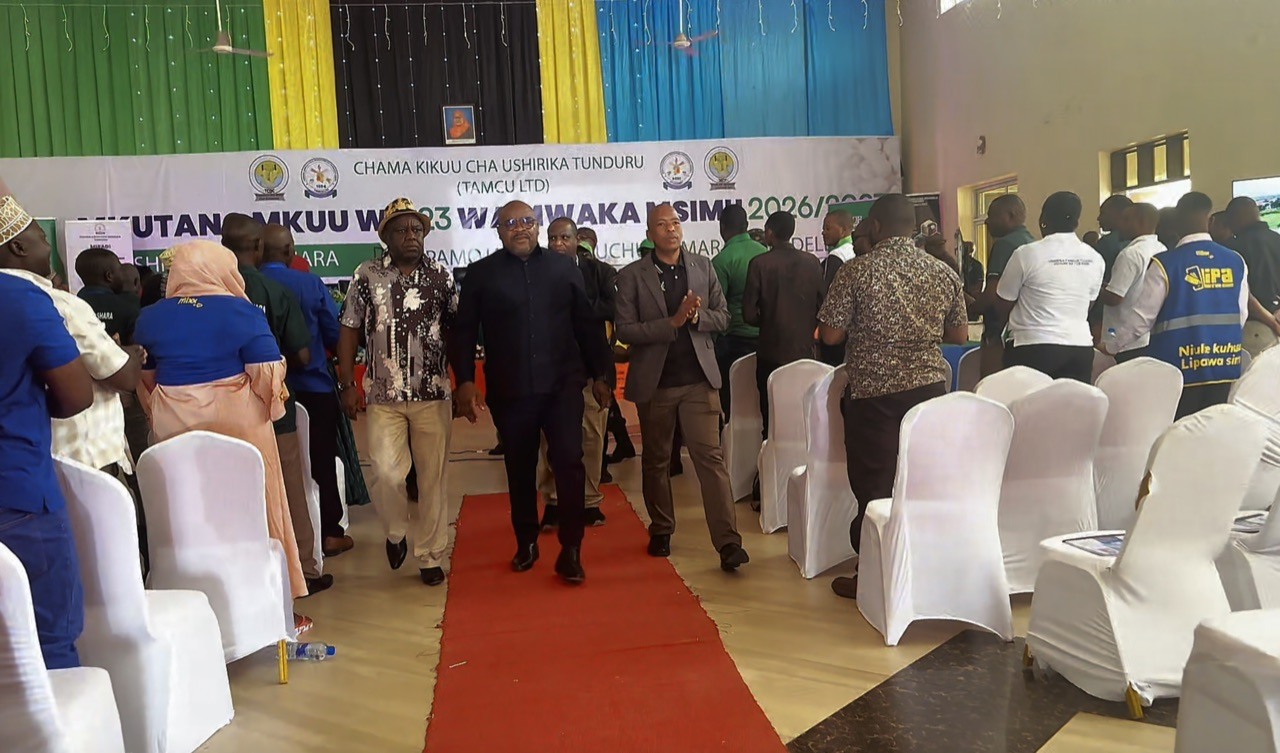
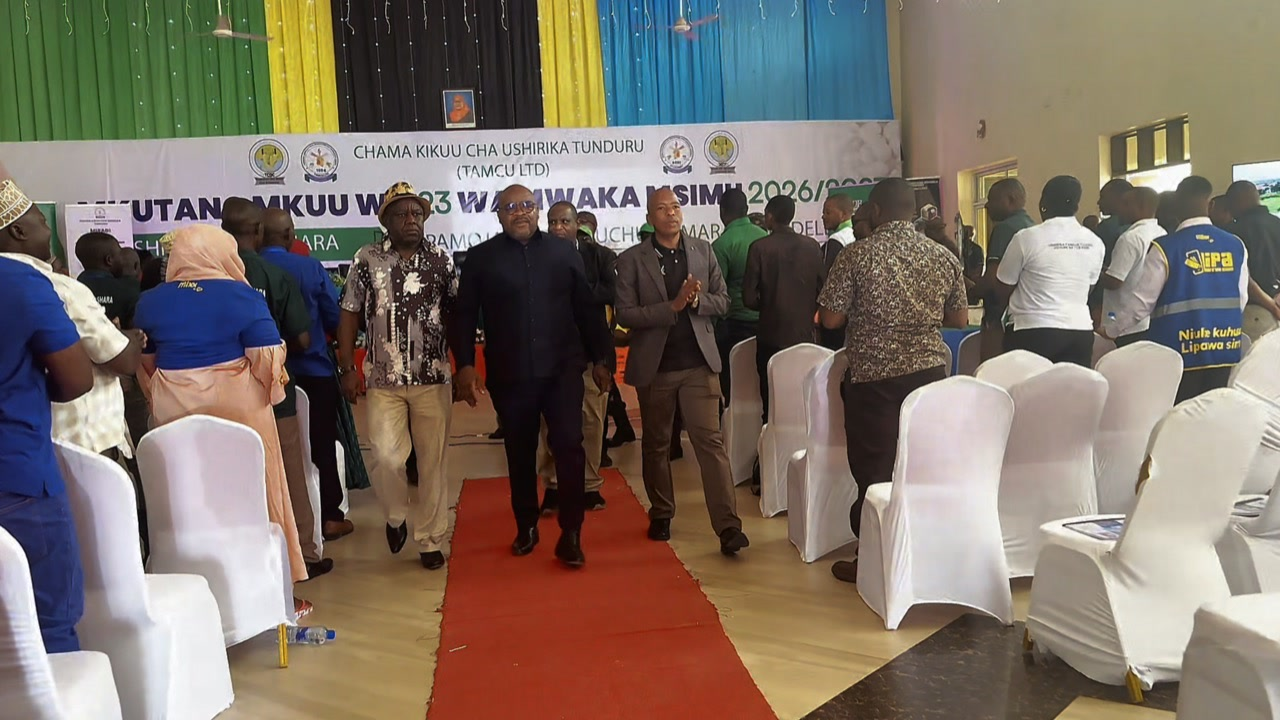
Production cleanup: fix phone links, optimize video, harden i18n, SEO/robots
- Fixed tel: links to use correct international format +2557537999001
- Added telephone to schema.org Organization JSON-LD
- Wrapped localStorage access in try/catch for private-mode safety
- Removed unused i18n keys for old stats/about paragraphs
- Replaced 38MB 1080p video with 13MB 720p version for autoplay performance
- Cropped video poster to 16:9 (1280x720) to match video aspect ratio
- Disallowed /pages/ in robots.txt to hide old template files
- Added original unoptimized assets to .gitignore

diff --git a/assets/js/i18n.js b/assets/js/i18n.js
@@ -9,6 +9,24 @@
   const STORAGE_KEY = 'tamcu-lang';
   const DEFAULT_LANG = 'sw';
 
+  /* Safe localStorage wrapper (handles private mode / blocked storage) */
+  const storage = {
+    get(key) {
+      try {
+        return localStorage.getItem(key);
+      } catch (e) {
+        return null;
+      }
+    },
+    set(key, value) {
+      try {
+        localStorage.setItem(key, value);
+      } catch (e) {
+        // ignore
+      }
+    },
+  };
+
   /* ================================================================
      DICTIONARY: Swahili key → English text
      Keys mirror the data-i18n attribute values.
@@ -70,17 +88,12 @@
     index_about_title: 'Primary Co-operative Society (TAMCU LTD)',
     index_about_p1:
       'TAMCU Primary Co-operative Society was established on 14.03.1994 under the Co-operative Societies Act (Chapter 211 Revised Edition 2023) and its amendments of 2025, and was given registration number AFF-RVM-TUN-DC-2023-27.',
-    index_about_p2: '',
-    index_about_p3: '',
     index_about_cert: 'Chapter 211',
     index_about_certYear: 'Revised Edition 2023',
     index_about_reg: 'AFF-RVM-TUN-DC-2023-27',
     index_about_regLabel: 'Registration No.',
 
     index_stats_founded: 'Year Founded',
-    index_stats_coops: 'Co-operative Societies',
-    index_stats_primary: 'Primary Societies in Tunduru',
-    index_stats_crops: 'Types of Crops',
     index_stats_amcos: 'Primary Societies (AMCOs)',
     index_stats_members: 'Member Societies',
     index_stats_nonmembers: 'Non-Member Societies',
@@ -164,9 +177,7 @@
       'TAMCU Primary Co-operative Society was established on 14.03.1994 under the Co-operative Societies Act (Chapter 211 Revised Edition 2023) and its amendments of 2025, and was given registration number AFF-RVM-TUN-DC-2023-27.',
     about_history_p2:
       'The society involves 49 Primary Societies (AMCOs), of which 44 are Member Societies and 5 are Non-Member Societies.',
-    about_history_p3: '',
     about_history_foundedLabel: 'Year Founded',
-    about_history_regLabel: 'Registration Certificate',
     about_history_years: 'Years of Service',
     about_history_amcosLabel: 'Primary Societies (AMCOs)',
     about_history_membersLabel: 'Member Societies',
@@ -776,7 +787,7 @@
    */
   window.setLanguage = function (lang) {
     if (lang !== 'sw' && lang !== 'en') return;
-    localStorage.setItem(STORAGE_KEY, lang);
+    storage.set(STORAGE_KEY, lang);
     applyLanguage(lang);
   };
 
@@ -784,7 +795,7 @@
    * Initialize on page load.
    */
   function init() {
-    const lang = localStorage.getItem(STORAGE_KEY) || DEFAULT_LANG;
+    const lang = storage.get(STORAGE_KEY) || DEFAULT_LANG;
     applyLanguage(lang);
   }
 

diff --git a/contact.html b/contact.html
@@ -194,7 +194,7 @@ tailwind.config = {
             </div>
             <div>
               <p data-i18n="contact_phone_label" class="font-heading font-semibold text-primary">Simu</p>
-              <a href="tel:+25507537999001" class="text-secondary text-sm hover:text-accent transition-colors">+255 (0) 753 -7999001</a>
+              <a href="tel:+2557537999001" class="text-secondary text-sm hover:text-accent transition-colors">+255 (0) 753 -7999001</a>
             </div>
           </div>
 
@@ -330,7 +330,7 @@ tailwind.config = {
         <ul class="space-y-3">
           <li class="flex items-start gap-3"><i data-lucide="map-pin" class="w-4 h-4 text-accent mt-0.5 shrink-0"></i><span data-i18n="contact_address" class="text-white/60 text-sm">Tunduru, Ruvuma, Tanzania</span></li>
           <li class="flex items-center gap-3"><i data-lucide="mail" class="w-4 h-4 text-accent shrink-0"></i><a href="mailto:[email redacted]" class="text-white/60 hover:text-white text-sm transition-colors">[email redacted]</a></li>
-          <li class="flex items-center gap-3"><i data-lucide="phone" class="w-4 h-4 text-accent shrink-0"></i><a href="tel:+25507537999001" class="text-white/60 hover:text-white text-sm transition-colors">+255 (0) 753 -7999001</a></li>
+          <li class="flex items-center gap-3"><i data-lucide="phone" class="w-4 h-4 text-accent shrink-0"></i><a href="tel:+2557537999001" class="text-white/60 hover:text-white text-sm transition-colors">+255 (0) 753 -7999001</a></li>
         </ul>
       </div>
     </div>

diff --git a/index.html b/index.html
@@ -36,6 +36,7 @@
   "logo": "assets/images/logo.png",
   "image": "assets/images/CoverPage.png",
   "email": "[email redacted]",
+  "telephone": "+2557537999001",
   "address": {
     "@type": "PostalAddress",
     "addressLocality": "Tunduru",
@@ -758,7 +759,7 @@ tailwind.config = {
           </li>
           <li class="flex items-center gap-3">
             <i data-lucide="phone" class="w-4 h-4 text-accent shrink-0"></i>
-            <a href="tel:+25507537999001" class="text-white/60 hover:text-white text-sm transition-colors">+255 (0) 753 -7999001</a>
+            <a href="tel:+2557537999001" class="text-white/60 hover:text-white text-sm transition-colors">+255 (0) 753 -7999001</a>
           </li>
         </ul>
       </div>

diff --git a/about.html b/about.html
@@ -358,7 +358,7 @@ tailwind.config = {
         <ul class="space-y-3">
           <li class="flex items-start gap-3"><i data-lucide="map-pin" class="w-4 h-4 text-accent mt-0.5 shrink-0"></i><span class="text-white/60 text-sm">Tunduru, Ruvuma, Tanzania</span></li>
           <li class="flex items-center gap-3"><i data-lucide="mail" class="w-4 h-4 text-accent shrink-0"></i><a href="mailto:[email redacted]" class="text-white/60 hover:text-white text-sm transition-colors">[email redacted]</a></li>
-          <li class="flex items-center gap-3"><i data-lucide="phone" class="w-4 h-4 text-accent shrink-0"></i><a href="tel:+25507537999001" class="text-white/60 hover:text-white text-sm transition-colors">+255 (0) 753 -7999001</a></li>
+          <li class="flex items-center gap-3"><i data-lucide="phone" class="w-4 h-4 text-accent shrink-0"></i><a href="tel:+2557537999001" class="text-white/60 hover:text-white text-sm transition-colors">+255 (0) 753 -7999001</a></li>
         </ul>
       </div>
     </div>

diff --git a/investment.html b/investment.html
@@ -328,7 +328,7 @@ tailwind.config = {
         <ul class="space-y-3">
           <li class="flex items-start gap-3"><i data-lucide="map-pin" class="w-4 h-4 text-accent mt-0.5 shrink-0"></i><span class="text-white/60 text-sm">Tunduru, Ruvuma, Tanzania</span></li>
           <li class="flex items-center gap-3"><i data-lucide="mail" class="w-4 h-4 text-accent shrink-0"></i><a href="mailto:[email redacted]" class="text-white/60 hover:text-white text-sm transition-colors">[email redacted]</a></li>
-          <li class="flex items-center gap-3"><i data-lucide="phone" class="w-4 h-4 text-accent shrink-0"></i><a href="tel:+25507537999001" class="text-white/60 hover:text-white text-sm transition-colors">+255 (0) 753 -7999001</a></li>
+          <li class="flex items-center gap-3"><i data-lucide="phone" class="w-4 h-4 text-accent shrink-0"></i><a href="tel:+2557537999001" class="text-white/60 hover:text-white text-sm transition-colors">+255 (0) 753 -7999001</a></li>
         </ul>
       </div>
     </div>

diff --git a/news.html b/news.html
@@ -318,7 +318,7 @@ tailwind.config = {
         <ul class="space-y-3">
           <li class="flex items-start gap-3"><i data-lucide="map-pin" class="w-4 h-4 text-accent mt-0.5 shrink-0"></i><span class="text-white/60 text-sm">Tunduru, Ruvuma, Tanzania</span></li>
           <li class="flex items-center gap-3"><i data-lucide="mail" class="w-4 h-4 text-accent shrink-0"></i><a href="mailto:[email redacted]" class="text-white/60 hover:text-white text-sm transition-colors">[email redacted]</a></li>
-          <li class="flex items-center gap-3"><i data-lucide="phone" class="w-4 h-4 text-accent shrink-0"></i><a href="tel:+25507537999001" class="text-white/60 hover:text-white text-sm transition-colors">+255 (0) 753 -7999001</a></li>
+          <li class="flex items-center gap-3"><i data-lucide="phone" class="w-4 h-4 text-accent shrink-0"></i><a href="tel:+2557537999001" class="text-white/60 hover:text-white text-sm transition-colors">+255 (0) 753 -7999001</a></li>
         </ul>
       </div>
     </div>

diff --git a/privacy-policy.html b/privacy-policy.html
@@ -255,7 +255,7 @@ tailwind.config = {
         <ul class="space-y-3">
           <li class="flex items-start gap-3"><i data-lucide="map-pin" class="w-4 h-4 text-accent mt-0.5 shrink-0"></i><span class="text-white/60 text-sm">Tunduru, Ruvuma, Tanzania</span></li>
           <li class="flex items-center gap-3"><i data-lucide="mail" class="w-4 h-4 text-accent shrink-0"></i><a href="mailto:[email redacted]" class="text-white/60 hover:text-white text-sm transition-colors">[email redacted]</a></li>
-          <li class="flex items-center gap-3"><i data-lucide="phone" class="w-4 h-4 text-accent shrink-0"></i><a href="tel:+25507537999001" class="text-white/60 hover:text-white text-sm transition-colors">+255 (0) 753 -7999001</a></li>
+          <li class="flex items-center gap-3"><i data-lucide="phone" class="w-4 h-4 text-accent shrink-0"></i><a href="tel:+2557537999001" class="text-white/60 hover:text-white text-sm transition-colors">+255 (0) 753 -7999001</a></li>
         </ul>
       </div>
     </div>

diff --git a/products.html b/products.html
@@ -403,7 +403,7 @@ tailwind.config = {
         <ul class="space-y-3">
           <li class="flex items-start gap-3"><i data-lucide="map-pin" class="w-4 h-4 text-accent mt-0.5 shrink-0"></i><span class="text-white/60 text-sm">Tunduru, Ruvuma, Tanzania</span></li>
           <li class="flex items-center gap-3"><i data-lucide="mail" class="w-4 h-4 text-accent shrink-0"></i><a href="mailto:[email redacted]" class="text-white/60 hover:text-white text-sm transition-colors">[email redacted]</a></li>
-          <li class="flex items-center gap-3"><i data-lucide="phone" class="w-4 h-4 text-accent shrink-0"></i><a href="tel:+25507537999001" class="text-white/60 hover:text-white text-sm transition-colors">+255 (0) 753 -7999001</a></li>
+          <li class="flex items-center gap-3"><i data-lucide="phone" class="w-4 h-4 text-accent shrink-0"></i><a href="tel:+2557537999001" class="text-white/60 hover:text-white text-sm transition-colors">+255 (0) 753 -7999001</a></li>
         </ul>
       </div>
     </div>

diff --git a/services.html b/services.html
@@ -297,7 +297,7 @@ tailwind.config = {
         <ul class="space-y-3">
           <li class="flex items-start gap-3"><i data-lucide="map-pin" class="w-4 h-4 text-accent mt-0.5 shrink-0"></i><span class="text-white/60 text-sm">Tunduru, Ruvuma, Tanzania</span></li>
           <li class="flex items-center gap-3"><i data-lucide="mail" class="w-4 h-4 text-accent shrink-0"></i><a href="mailto:[email redacted]" class="text-white/60 hover:text-white text-sm transition-colors">[email redacted]</a></li>
-          <li class="flex items-center gap-3"><i data-lucide="phone" class="w-4 h-4 text-accent shrink-0"></i><a href="tel:+25507537999001" class="text-white/60 hover:text-white text-sm transition-colors">+255 (0) 753 -7999001</a></li>
+          <li class="flex items-center gap-3"><i data-lucide="phone" class="w-4 h-4 text-accent shrink-0"></i><a href="tel:+2557537999001" class="text-white/60 hover:text-white text-sm transition-colors">+255 (0) 753 -7999001</a></li>
         </ul>
       </div>
     </div>

diff --git a/terms-of-use.html b/terms-of-use.html
@@ -251,7 +251,7 @@ tailwind.config = {
         <ul class="space-y-3">
           <li class="flex items-start gap-3"><i data-lucide="map-pin" class="w-4 h-4 text-accent mt-0.5 shrink-0"></i><span class="text-white/60 text-sm">Tunduru, Ruvuma, Tanzania</span></li>
           <li class="flex items-center gap-3"><i data-lucide="mail" class="w-4 h-4 text-accent shrink-0"></i><a href="mailto:[email redacted]" class="text-white/60 hover:text-white text-sm transition-colors">[email redacted]</a></li>
-          <li class="flex items-center gap-3"><i data-lucide="phone" class="w-4 h-4 text-accent shrink-0"></i><a href="tel:+25507537999001" class="text-white/60 hover:text-white text-sm transition-colors">+255 (0) 753 -7999001</a></li>
+          <li class="flex items-center gap-3"><i data-lucide="phone" class="w-4 h-4 text-accent shrink-0"></i><a href="tel:+2557537999001" class="text-white/60 hover:text-white text-sm transition-colors">+255 (0) 753 -7999001</a></li>
         </ul>
       </div>
     </div>